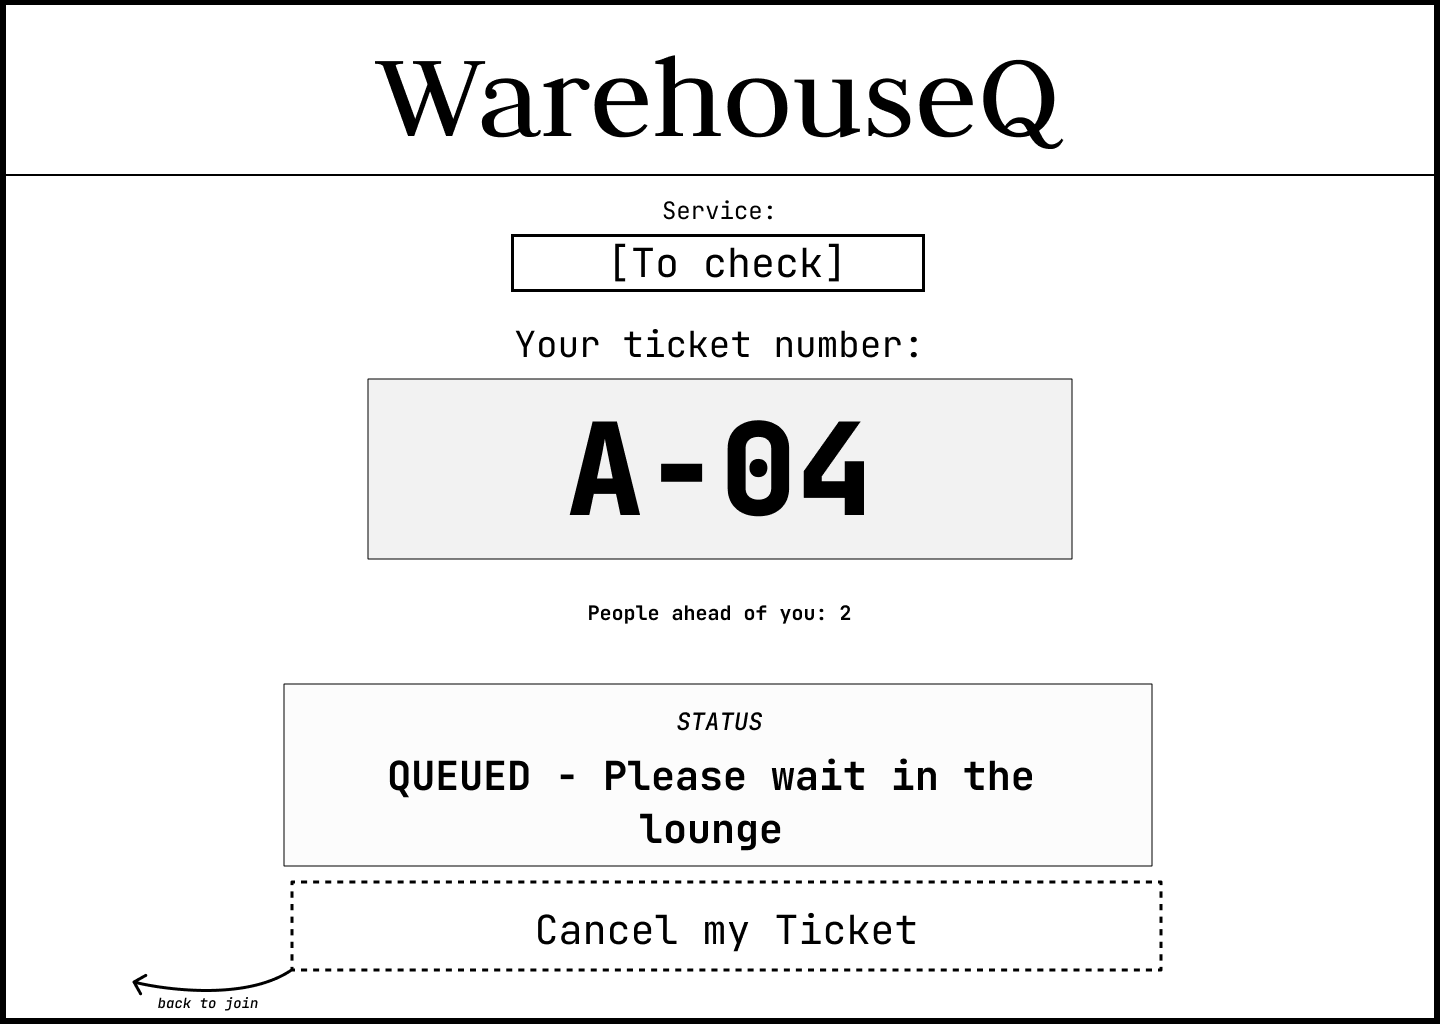
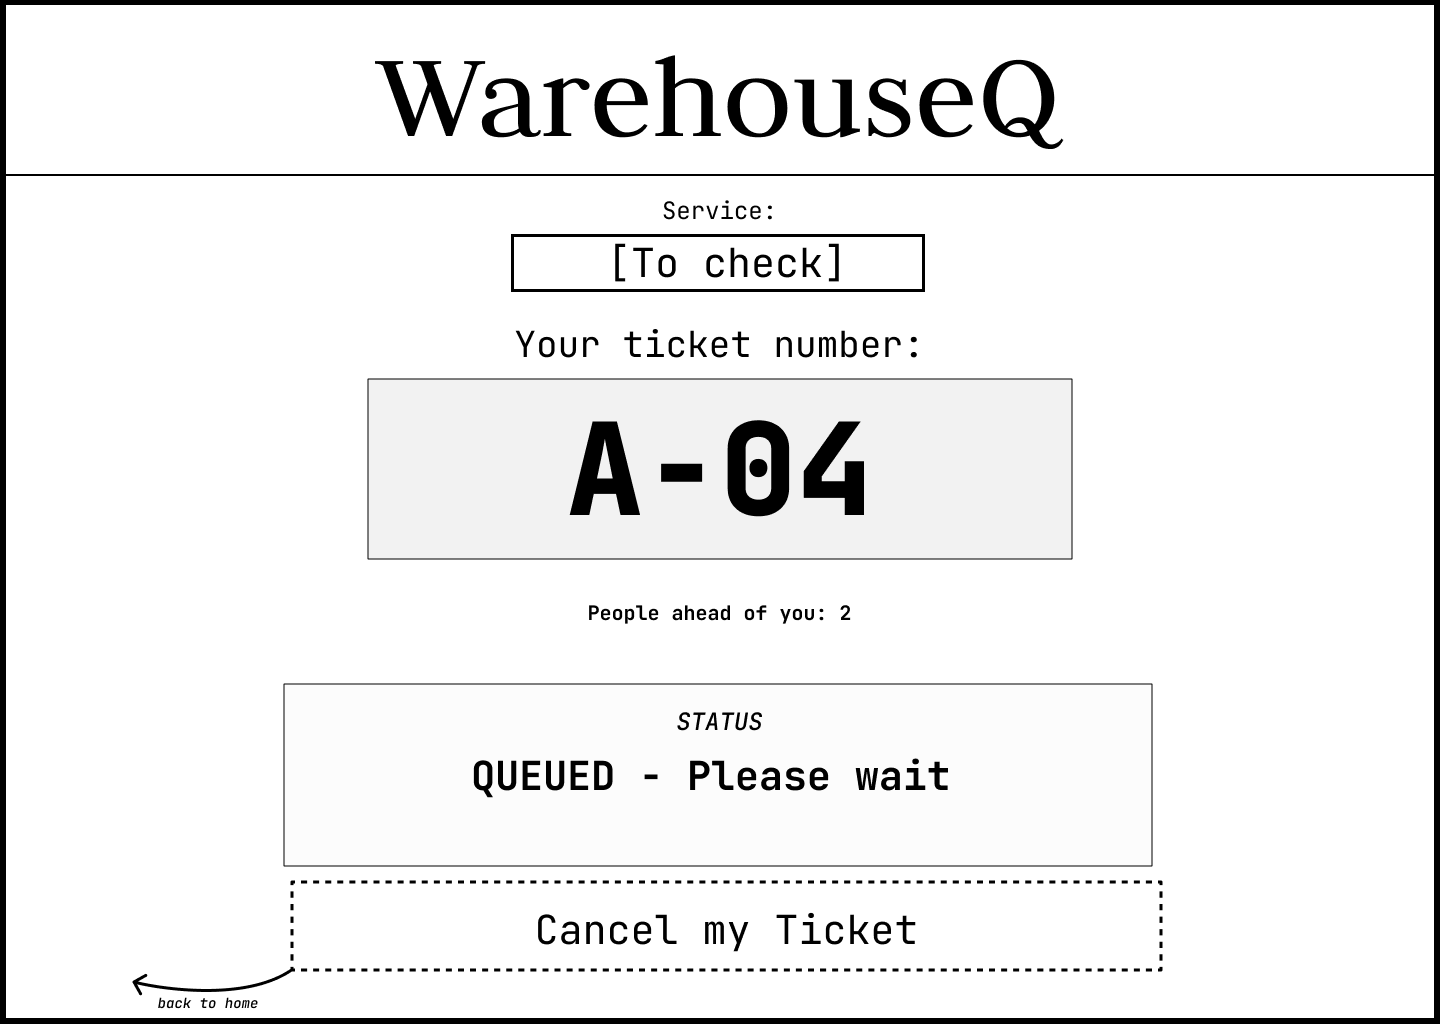
feedbacks

Changed region(s): [[0.25, 0.7188, 0.7188, 0.8438], [0.1562, 0.9688, 0.1875, 1.0]]

diff --git a/feedback.md b/feedback.md
@@ -1,0 +1,25 @@
+# Persona and wireframe self-review
+
+## Join the queue 
+
+**Works well:** Alex can recognize the item-entry form and the large **Check In** button quickly on both sizes. The phone layout keeps the form and main action prominent, supporting Alex's need to join while away from the desk.
+
+**Problem:** The screen appears to offer only **To Check**, with no clear way to choose **To Ship**. That could send Alex into the wrong queue. “Have items inspected” and “To Check” also describe the same service differently, which may cause hesitation. Ticket status does not apply until after check-in.
+
+**Change:** Show a home for **To Check** and **To Ship** as clearly labeled choices, and use the same service names throughout. Keep the selected service visible before Alex checks in.
+
+## My place
+
+**Works well:** The ticket number, service, people ahead, and current status are visible in both frames. The phone puts the ticket number and queue position where Alex can find them quickly.
+
+**Problem:** The status message says **“Please wait in the lounge,”** but Alex may be in the loading bay or truck cab. It also does not show what to do when Alex's turn arrives, or address the risk of missing a call in a noisy warehouse. On the phone, the status is less prominent than the ticket number.
+
+**Change:** Use a direct instruction such as **“Completed — please claim the items at designated station”** when called.
+
+## Staff dashboard
+
+**Works well:** **Now Serving** makes the current ticket easy to spot, and each queue entry shows its service and item count. The large **Mark as Done** button is easy to reach, including on the phone.
+
+**Problem:** The current ticket also appears in **Up Coming**, which could confuse Jade about queue order. The main action is **Mark as Done**, but Jade also needs to call the next person and handle no-shows. On the phone, the list requires scrolling, so those common actions should remain easy to find.
+
+**Change:** Remove the current ticket from **Up Coming** and make the order unambiguous. Add clear actions to call the next ticket, alongside completing service. Keep those actions large and easy to reach on the phone

diff --git a/hw3_queue_app.md b/hw3_queue_app.md
@@ -193,10 +193,10 @@ Save the files as `docs/week3/wireframes/` (PNG, JPG or PDF), for example `join-
 
 **Checkpoint 2**
 
-- [ ] Six frames: three screens, each at phone and laptop width.
-- [ ] Every frame names the persona, the device, and the requirement IDs.
-- [ ] The main flow for each persona is marked with arrows.
-- [ ] Committed in `docs/week3/wireframes/`.
+- [X] Six frames: three screens, each at phone and laptop width.
+- [X] Every frame names the persona, the device, and the requirement IDs.
+- [X] The main flow for each persona is marked with arrows.
+- [X] Committed in `docs/week3/wireframes/`.
 
 ---
 
@@ -223,9 +223,9 @@ Update your wireframes with the changes before you start Part 4.
 
 **Checkpoint 3**
 
-- [ ] `docs/week3/feedback.md` has a review of all three screens in the *Works well / Problem / Change* format.
-- [ ] Your wireframes are updated, or `feedback.md` explains why you kept them.
-- [ ] Committed.
+- [X] `docs/week3/feedback.md` has a review of all three screens in the *Works well / Problem / Change* format.
+- [X] Your wireframes are updated, or `feedback.md` explains why you kept them.
+- [X] Committed.
 
 ---
 
